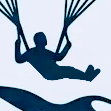
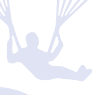
Changed for vectorized ones, adjusted vertical spacing of rain and fog labels, some optimzation changes

diff --git a/frontend/src/hooks/useSoarData.js b/frontend/src/hooks/useSoarData.js
@@ -2,8 +2,9 @@ import { useState, useEffect, useCallback, useRef } from 'react'
 import { api } from '../api.js'
 
 const POLL_MS = 10_000   // poll status every 10 s
+const CACHE_TTL = 2 * 60 * 60 * 1000   // 2 h — matches server TTL
 
-// ── Display forecast cache (localStorage) ────────────────────────────────
+// ── Display forecast cache ────────────────────────────────────────────────
 function displayCacheKey(model, timeStart, timeEnd, selectedWings, weight, customWind, windMin, windMax) {
   return 'soar_display_v1:' + JSON.stringify({ model, timeStart, timeEnd, selectedWings, weight, customWind, windMin, windMax })
 }
@@ -12,7 +13,7 @@ function loadDisplayCache(key) {
     const raw = localStorage.getItem(key)
     if (!raw) return null
     const { display, certainty, savedAt } = JSON.parse(raw)
-    if (Date.now() - savedAt > 2 * 60 * 60 * 1000) return null  // stale after 2 h
+    if (Date.now() - savedAt > CACHE_TTL) return null
     return { display, certainty }
   } catch { return null }
 }
@@ -25,6 +26,23 @@ function saveDisplayCache(key, display, certainty) {
       localStorage.setItem(key, JSON.stringify({ display, certainty, savedAt: Date.now() }))
     } catch {}
   }
+}
+
+// ── Measurements cache ────────────────────────────────────────────────────
+const MEAS_CACHE_KEY = 'soar_measurements_v1'
+function loadMeasCache() {
+  try {
+    const raw = localStorage.getItem(MEAS_CACHE_KEY)
+    if (!raw) return null
+    const { data, savedAt } = JSON.parse(raw)
+    if (Date.now() - savedAt > CACHE_TTL) return null
+    return data
+  } catch { return null }
+}
+function saveMeasCache(data) {
+  try {
+    localStorage.setItem(MEAS_CACHE_KEY, JSON.stringify({ data, savedAt: Date.now() }))
+  } catch {}
 }
 
 function loadSelectedWings() {
@@ -63,24 +81,34 @@ function isInDaylightWindow(rawForecast) {
 }
 
 export function useSoarData() {
-  // ── Read initial settings + cache in a single pass ───────────────────────
-  const initSettings = readSettingsFromStorage()
-  const initCacheKey = displayCacheKey(
-    initSettings.model, initSettings.timeStart, initSettings.timeEnd,
-    initSettings.selectedWings, initSettings.weight,
-    initSettings.customWind, initSettings.windMin, initSettings.windMax,
-  )
-  const initCache = loadDisplayCache(initCacheKey)
+  // ── Read initial settings + cache exactly once (inside useRef) ───────────
+  // Computed at the top of the hook body these would re-run on every render;
+  // storing in a ref means they run once on mount and never again.
+  const initRef = useRef(null)
+  if (!initRef.current) {
+    const settings = readSettingsFromStorage()
+    const cacheKey = displayCacheKey(
+      settings.model, settings.timeStart, settings.timeEnd,
+      settings.selectedWings, settings.weight,
+      settings.customWind, settings.windMin, settings.windMax,
+    )
+    initRef.current = {
+      settings,
+      cache: loadDisplayCache(cacheKey),
+      measCache: loadMeasCache(),
+    }
+  }
+  const { settings: initSettings, cache: initCache, measCache: initMeasCache } = initRef.current
 
   const [status, setStatus]           = useState(null)
   const [points, setPoints]           = useState([])
   const [days, setDays]               = useState([])
   const [wings, setWings]             = useState({})
-  const [displayForecast, setDisplay] = useState(initCache?.display ?? null)
+  const [displayForecast, setDisplay] = useState(initCache?.display   ?? null)
   const [certainty, setCertainty]     = useState(initCache?.certainty ?? null)
   const [rawForecast, setRaw]         = useState(null)
-  const [measurements, setMeasure]    = useState(null)
-  const [loading, setLoading]         = useState(!initCache)   // skip spinner on cache hit
+  const [measurements, setMeasure]    = useState(initMeasCache ?? null)  // warm from cache
+  const [loading, setLoading]         = useState(!initCache)  // skip spinner on cache hit
   const [error, setError]             = useState(null)
 
   // User settings (persisted in localStorage)
@@ -95,17 +123,19 @@ export function useSoarData() {
   const [dateIdx, setDateIdx]           = useState(1)
 
   // ── Refs ──────────────────────────────────────────────────────────────────
-  // Mirror of current settings so fetchDisplay() can stay stable (no deps)
+  // Mirror of current settings so fetchDisplay() stays stable (no deps)
   const settingsRef = useRef(initSettings)
 
-  // If fetchDisplay() is called while one is in-flight, pendingFetch is set
+  // pendingFetch: if fetchDisplay() is called while in-flight, set this flag
   // so the finally block re-runs with the latest settings automatically.
   const isFetchingDisplay = useRef(false)
   const pendingFetch      = useRef(false)
 
+  // Stable ref for displayForecast — lets the poll check it without depending on it
+  const displayRef         = useRef(initCache?.display ?? null)
   const prevMeasAgeRef     = useRef(null)
   const prevForecastAgeRef = useRef(null)
-  const rawForecastRef     = useRef(null)   // stable ref so poll never recreates the interval
+  const rawForecastRef     = useRef(null)
 
   // ── Keep refs in sync with state ─────────────────────────────────────────
   useEffect(() => {
@@ -125,12 +155,10 @@ export function useSoarData() {
   useEffect(() => { localStorage.setItem('windMax',       windMax) },      [windMax])
 
   // ── Fetch display forecast ────────────────────────────────────────────────
-  // Stable (no deps) — reads current settings from settingsRef so it never
-  // needs to be recreated when settings change, which keeps the poll interval
-  // alive and avoids the 10 s gap a teardown/recreate would introduce.
+  // Stable (no deps) — reads settings from settingsRef.
   const fetchDisplay = useCallback(async () => {
     if (isFetchingDisplay.current) {
-      pendingFetch.current = true   // re-fetch with latest settings once this one lands
+      pendingFetch.current = true
       return
     }
     isFetchingDisplay.current = true
@@ -144,24 +172,26 @@ export function useSoarData() {
       )
       if (disp.display) {
         setDisplay(disp.display)
+        displayRef.current = disp.display
         const key = displayCacheKey(model, timeStart, timeEnd, selectedWings, weight, customWind, windMin, windMax)
         saveDisplayCache(key, disp.display, disp.certainty)
       }
       if (disp.certainty) setCertainty(disp.certainty)
 
-      // Raw forecast + measurements in the background — MapForecast already
-      // rendered from displayForecast above, these feed PointForecast.
+      // Raw forecast + measurements in background — MapForecast already rendered
       const [raw, meas] = await Promise.all([
         api.rawForecast(model),
         api.measurements(),
       ])
       if (raw.forecast) setRaw(raw.forecast)
-      setMeasure(meas)
+      if (meas) {
+        setMeasure(meas)
+        saveMeasCache(meas)   // keep measurements warm for next reload
+      }
     } catch (e) {
       console.error('fetchDisplay', e)
     } finally {
       isFetchingDisplay.current = false
-      // Settings changed while we were in-flight → fetch again with latest values
       if (pendingFetch.current) {
         pendingFetch.current = false
         fetchDisplay()
@@ -179,8 +209,8 @@ export function useSoarData() {
   // ── Initial load ──────────────────────────────────────────────────────────
   useEffect(() => {
     async function init() {
-      // Cache miss → fetch display immediately; cache hit → wait until we
-      // confirm the server is up (below), then fetch fresh in background.
+      // Cache miss → fetch display immediately
+      // Cache hit → wait until server is confirmed up, then refresh in background
       if (!initCache) fetchDisplay()
 
       const MAX_ATTEMPTS = 5
@@ -201,11 +231,10 @@ export function useSoarData() {
             setSelectedWings([{ key: firstKey, size: wgs[firstKey].default_size }])
           }
 
-          // Fire-and-forget background refresh jobs
           if (st.forecast_stale && !st.updating_forecast) api.refreshForecast()
           if (st.measurement_stale && !st.updating_measurements) api.refreshMeasure()
 
-          // Cache hit: now that we know the server is up, refresh in the background
+          // Cache hit → silently refresh in background now we know server is up
           if (initCache && st.forecast_available) fetchDisplay()
 
           setLoading(false)
@@ -224,7 +253,6 @@ export function useSoarData() {
   }, []) // eslint-disable-line react-hooks/exhaustive-deps
 
   // ── Poll status ───────────────────────────────────────────────────────────
-  // fetchDisplay is stable → this interval is created once and never recreated.
   useEffect(() => {
     const poll = setInterval(async () => {
       try {
@@ -236,15 +264,19 @@ export function useSoarData() {
           api.refreshMeasure()
         }
 
-        // Measurement refresh just completed → pull live data
+        // Measurement refresh completed → pull fresh data and cache it
         const prevMeasAge = prevMeasAgeRef.current
         const currMeasAge = st.measurement_age_seconds
         if (prevMeasAge != null && currMeasAge != null && currMeasAge < prevMeasAge - 30) {
-          try { setMeasure(await api.measurements()) } catch (e) { console.error('meas live-update', e) }
+          try {
+            const meas = await api.measurements()
+            setMeasure(meas)
+            saveMeasCache(meas)
+          } catch (e) { console.error('meas live-update', e) }
         }
         prevMeasAgeRef.current = currMeasAge
 
-        // Forecast refresh just completed → re-fetch display immediately
+        // Forecast refresh completed → re-fetch display
         const prevForecastAge = prevForecastAgeRef.current
         const currForecastAge = st.forecast_age_seconds
         prevForecastAgeRef.current = currForecastAge
@@ -253,9 +285,9 @@ export function useSoarData() {
           return
         }
 
-        // No display data yet → try to fetch (in case init missed it)
-        if (st.forecast_available && !isFetchingDisplay.current) {
-          setDisplay(d => { if (!d) fetchDisplay(); return d })
+        // No display data yet → fetch now (guards against init race)
+        if (st.forecast_available && !displayRef.current && !isFetchingDisplay.current) {
+          fetchDisplay()
         }
       } catch (e) {
         console.error('poll', e)

diff --git a/frontend/src/components/MapForecast.jsx b/frontend/src/components/MapForecast.jsx
@@ -115,7 +115,7 @@ function GanttChart({ ganttRows, weatherRows, days, certByDay }) {
   // ganttRows: array of { day, point, type, start, end }  (flyable windows)
   // weatherRows: array of { day, type, start, end }       (fog / rain windows)
   const COLOR = { good: '#1fd100', cross: '#d1bb16', good_gusty: '#d68800', cross_gusty: '#c12e0d', no: 'transparent' }
-  const WEATHER_COLOR = { fog: '#b0b0c8', rain: '#3a7bd5' }
+  const WEATHER_COLOR = { fog: '#c7c9db', rain: '#2db8de' }
   const DAY_H = 52
   const LEFT  = 90
   const RIGHT = 20
@@ -347,19 +347,19 @@ export default function MapForecast({ data }) {
       <div style={{ position: 'relative' }}>
         {/* Weather badges — pinned to top of chart area, aligned to bar columns */}
         {barData.some(d => weatherByDay[d.day]?.has_fog || weatherByDay[d.day]?.has_rain) && (
-          <div style={{ position: 'absolute', top: 2, left: 28, right: 8, display: 'flex', zIndex: 1, pointerEvents: 'none' }}>
+          <div style={{ position: 'absolute', top: 'clamp(20px, -2.5vw, 14px)', left: 28, right: 8, display: 'flex', zIndex: 1, pointerEvents: 'none' }}>
             {barData.map((d, i) => {
               const w = weatherByDay[d.day]
               if (!w?.has_fog && !w?.has_rain) return <div key={i} style={{ flex: 1 }} />
               return (
                 <div key={i} style={{ flex: 1, display: 'flex', flexDirection: 'column', alignItems: 'center', gap: 1 }}>
                   {w.has_rain && (
-                    <span style={{ fontSize: 'clamp(7px, 1.4vw, 10px)', fontWeight: 700, color: '#3a7bd5', background: '#3a7bd522', padding: '1px 3px', borderRadius: 4, lineHeight: 1.2, display: 'inline-block' }}>
+                    <span style={{ fontSize: 'clamp(7px, 1.4vw, 10px)', fontWeight: 700, color: '#2db8de', background: '#3a7bd522', padding: '1px 3px', borderRadius: 4, lineHeight: 1.2, display: 'inline-block' }}>
                       Rain
                     </span>
                   )}
                   {w.has_fog && (
-                    <span style={{ fontSize: 'clamp(7px, 1.4vw, 10px)', fontWeight: 700, color: '#9090b8', background: '#9090b822', padding: '1px 3px', borderRadius: 4, lineHeight: 1.2, display: 'inline-block' }}>
+                    <span style={{ fontSize: 'clamp(7px, 1.4vw, 10px)', fontWeight: 700, color: '#c7c9db', background: '#9090b822', padding: '1px 3px', borderRadius: 4, lineHeight: 1.2, display: 'inline-block' }}>
                       Fog
                     </span>
                   )}

diff --git a/frontend/src/components/Info.jsx b/frontend/src/components/Info.jsx
@@ -52,7 +52,7 @@ export default function Info({ data }) {
       <div style={card}>
         <img
           src="/paraglider.png"
-          style={{ display: 'block', width: 'clamp(160px, 14vw, 200px)', height: 'clamp(160px, 14vw, 200px)', opacity: 0.9, marginBottom: 16 }}
+          style={{ display: 'block', width: 'clamp(300px, 14vw, 400px)', height: 'clamp(300px, 14vw, 400px)', opacity: 0.9, marginBottom: 16 }}
           alt=""
         />
         <h2 style={h2}>About Soaralarm NL</h2>
